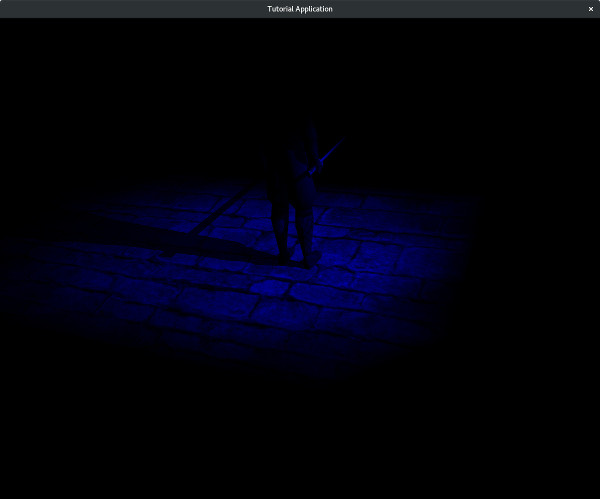
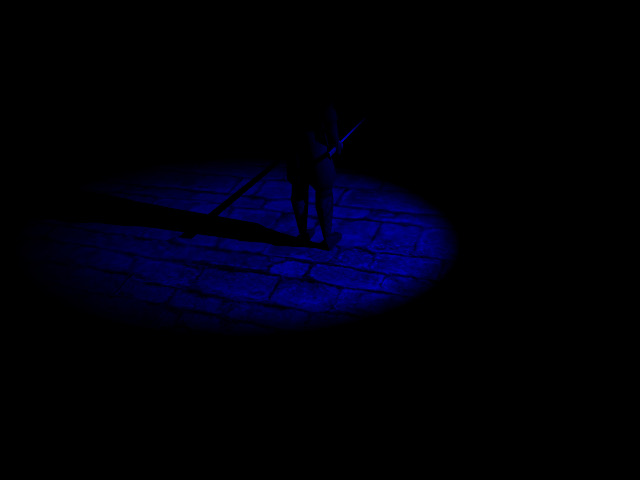
Docs: Basic Tutorial 2 - use additive lighting
and move shadow config on top

Changed region(s): [[0.12, 0.25, 0.78, 0.7188], [0.0, 0.0, 1.0, 0.0625]]

diff --git a/Samples/Tutorials/BasicTutorial2.cpp b/Samples/Tutorials/BasicTutorial2.cpp
@@ -106,6 +106,11 @@ void TutorialApplication::setup()
     cam->setAspectRatio(Real(vp->getActualWidth()) / Real(vp->getActualHeight()));
     //! [cameraratio]
 
+    //! [lightingsset]
+    scnMgr->setAmbientLight(ColourValue(0, 0, 0));
+    scnMgr->setShadowTechnique(ShadowTechnique::SHADOWTYPE_STENCIL_ADDITIVE);
+    //! [lightingsset]
+
     //! [ninja]
     Entity* ninjaEntity = scnMgr->createEntity("ninja.mesh");
     ninjaEntity->setCastShadows(true);
@@ -139,11 +144,6 @@ void TutorialApplication::setup()
     //! [planesetmat]
     groundEntity->setMaterialName("Examples/Rockwall");
     //! [planesetmat]
-
-    //! [lightingsset]
-    scnMgr->setAmbientLight(ColourValue(0, 0, 0));
-    scnMgr->setShadowTechnique(ShadowTechnique::SHADOWTYPE_STENCIL_MODULATIVE);
-    //! [lightingsset]
 
     //! [spotlight]
     Light* spotLight = scnMgr->createLight("SpotLight");

diff --git a/Docs/src/tutorials/basictutorials/basictutorial2.md b/Docs/src/tutorials/basictutorials/basictutorial2.md
@@ -94,13 +94,13 @@ And finally we need to give our ground a material. For now, it will be easiest t
 Make sure you add the texture for the material and the Examples.material script to your resource loading path. In our case, the texture is called 'rockwall.tga'. You can find the name yourself by reading the entry in the material script.
 
 # Using Shadows in Ogre {#bt2UsingShadowsinOgre}
-Enabling shadows in Ogre is easy. The SceneManager class has a Ogre::SceneManager::setShadowTechnique method we can use. Then whenever we create an Entity, we call setCastShadows to choose which Entities will cast shadows. setShadowTechinique method takes several of different techniques. Refer to Ogre::ShadowTechnique for more details.
+Enabling shadows in Ogre is easy. The SceneManager class has a Ogre::SceneManager::setShadowTechnique method we can use. Then whenever we create an Entity, we call Ogre::Entity::setCastShadows to choose which ones will cast shadows. setShadowTechinique method takes several of different techniques. Refer to Ogre::ShadowTechnique for more details.
 
 Let's turn off the ambient light so we can see the full effect of our lights. Add the following changes:
 
 @snippet Samples/Tutorials/BasicTutorial2.cpp lightingsset
 
-Now the SceneManager will use modulative stencil shadows. Let's add some lights to see this in action.
+Now the SceneManager will use shadows. Let's add some lights to see this in action.
 
 # Lights {#bt2Lights}
 Ogre provides three types of lighting.
